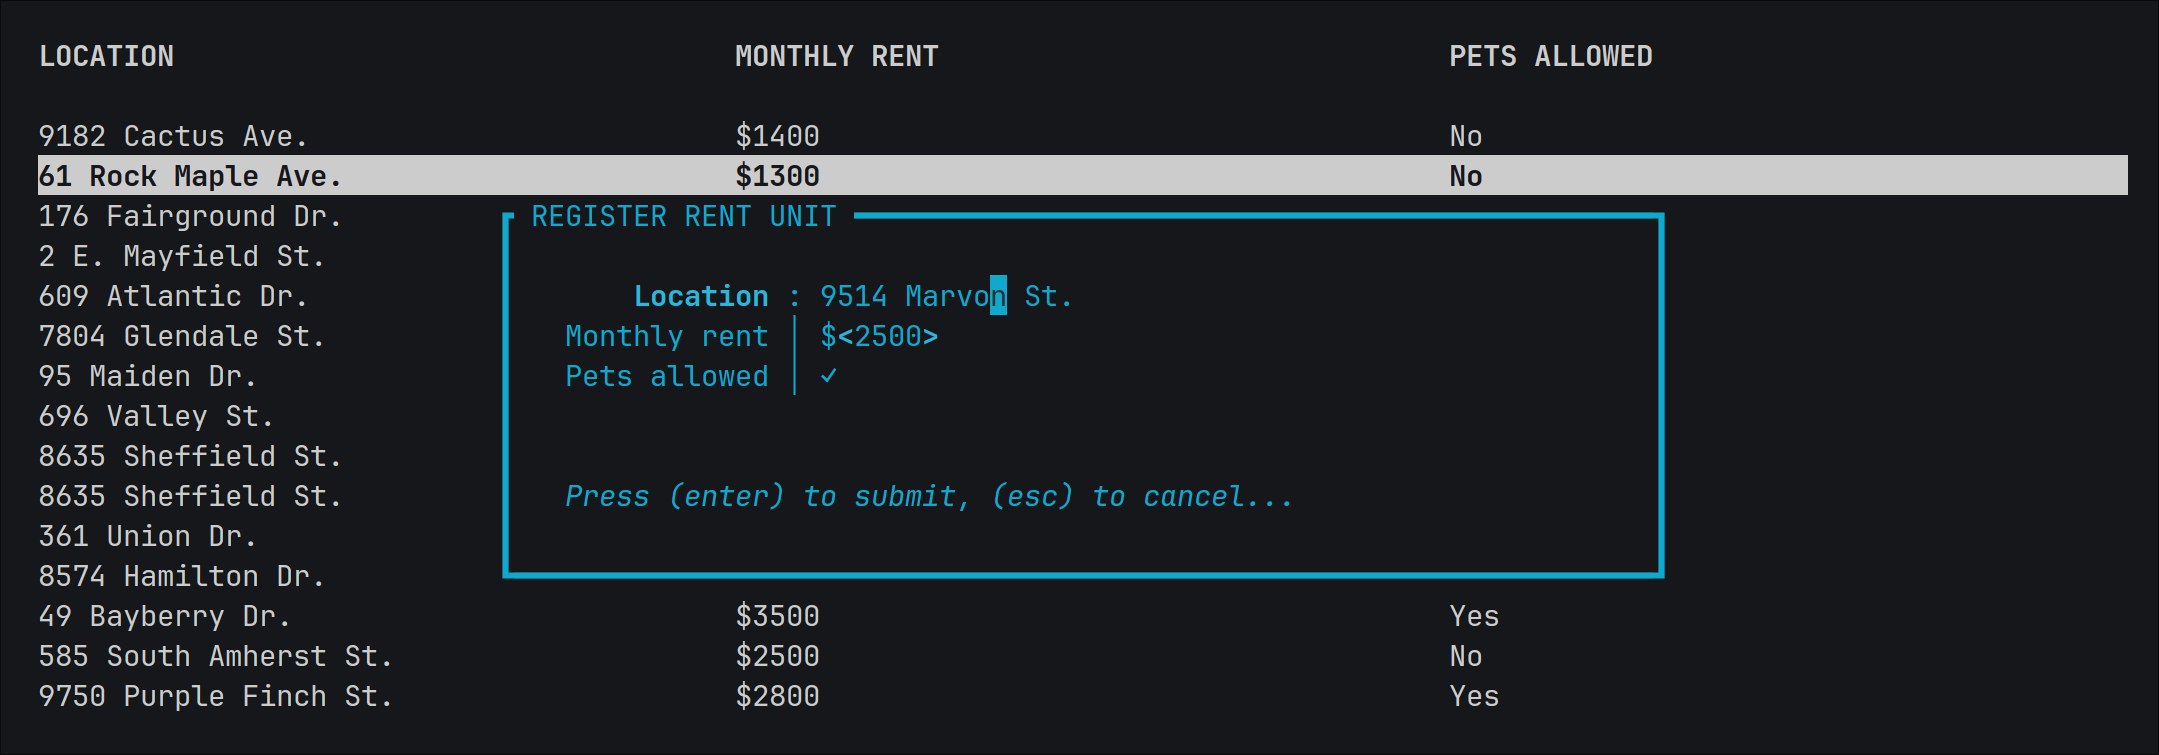
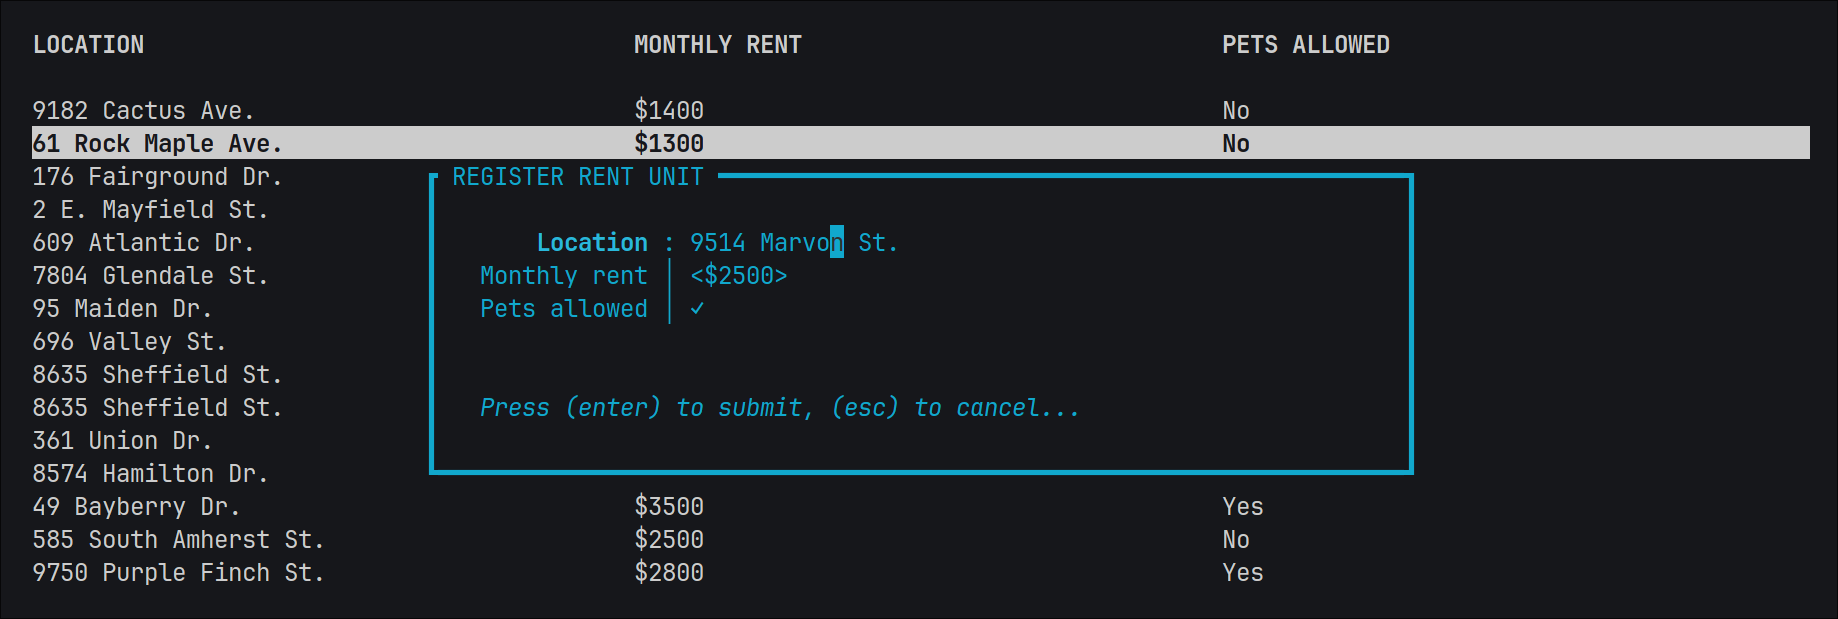
Moved affixes to inbetween angle brackets in sliders
Looks nicer :-)

diff --git a/src/field/slider.rs b/src/field/slider.rs
@@ -101,7 +101,7 @@ where
 
     fn format(&self, focused: bool) -> Text {
         let val = format!("{}", self.value);
-        let style = |cond| match cond {
+        let style = |cond| match focused && cond {
             true => Style::new().bold(), 
             false => Style::new(), 
         };
@@ -110,11 +110,11 @@ where
             .map(|x| x.map(AsRef::as_ref).map(Span::from))
             .map(Option::unwrap_or_default);
         Line::from(vec![
-            prefix, 
             Span::styled("<", style(&self.value != self.range.start())), 
+            prefix, 
             Span::styled(val, style(focused)), 
-            Span::styled(">", style(&self.value != self.range.end())), 
             suffix, 
+            Span::styled(">", style(&self.value != self.range.end())), 
         ]).into()
     }
 
